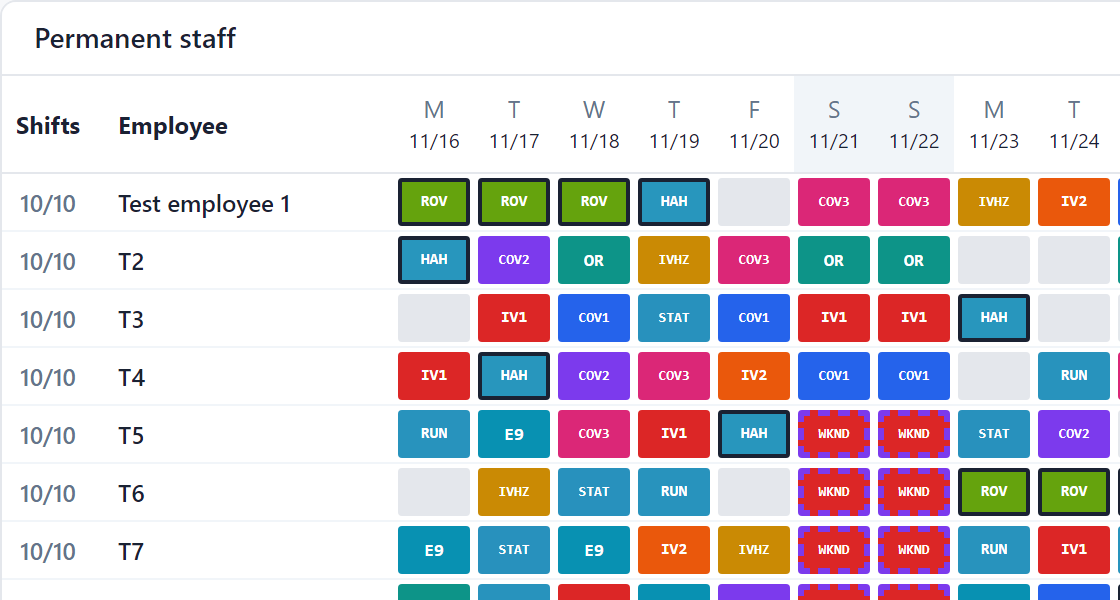
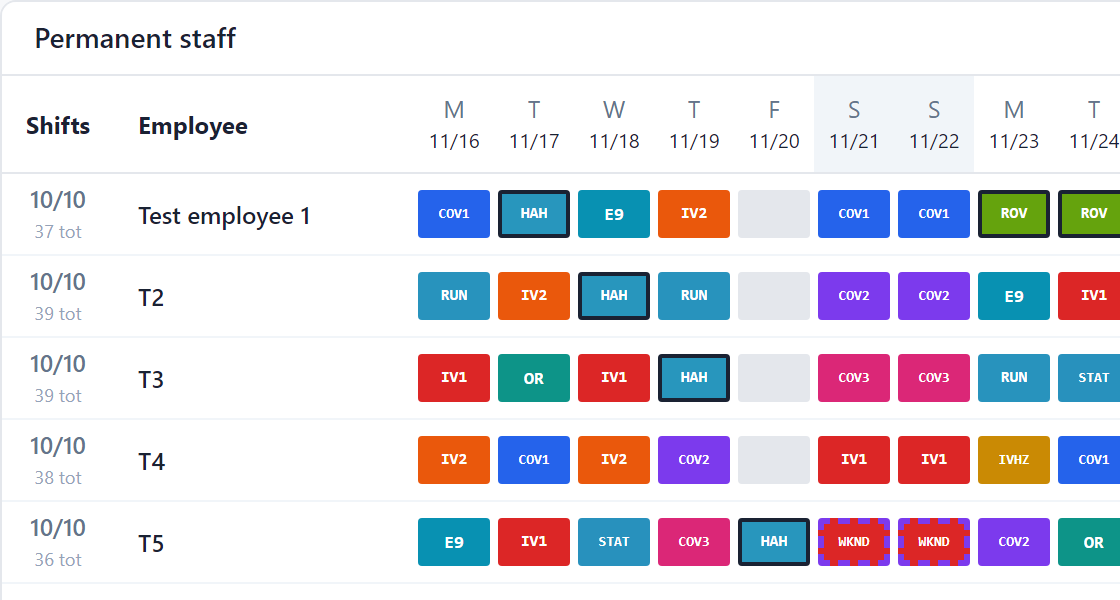
Show both peak and running total in the Shifts column
The Shifts column's single number (worst 14-day window anywhere in the
schedule) only visibly increases after a manual edit, never decreases,
since removing one shift rarely brings every window that includes it
back under the schedule's overall high-water mark. Now shows that peak
number (still the one that turns red, still the real cap check) plus a
small running total underneath that moves symmetrically with every drag,
so an edit's effect is always visible even when the peak doesn't change.

diff --git a/src/App.jsx b/src/App.jsx
@@ -1588,11 +1588,21 @@ export default function ShiftFairnessSchedulerV4({ session, profile: initialProf
   // running total. PTO-1 needs no special handling here — worked day
   // indices only ever include a day someone was actually assigned, which
   // a PTO-1 day never is.
+  // `peak` (worst window anywhere in the whole schedule) is what actually
+  // has to stay correct, so it's what drives the cap comparison and the
+  // red flag — total alone can't be safely compared to a per-window cap
+  // (a multi-period schedule's total is naturally a multiple of it, e.g.
+  // 38 total vs a cap of 10 looks alarming but is normal over 8 weeks).
+  // `total` is shown alongside it purely so the number visibly moves on
+  // every drag — peak only drops once ALL windows touching the removed
+  // day fall below the old high-water mark, so it can look "stuck" after
+  // a single edit even though the data changed correctly.
   const shiftTallyFor = (employee) => {
     const worked = workedDayIndicesFromSchedule(schedule.days, employee.id);
-    if (!employee.shiftCap) return { current: worked.length, cap: null, over: false };
-    const current = maxShiftsInAnyWindow(worked, employee.shiftCap.windowDays);
-    return { current, cap: employee.shiftCap.maxShifts, over: current > employee.shiftCap.maxShifts };
+    const total = worked.length;
+    if (!employee.shiftCap) return { total, cap: null, peak: total, over: false };
+    const peak = maxShiftsInAnyWindow(worked, employee.shiftCap.windowDays);
+    return { total, cap: employee.shiftCap.maxShifts, peak, over: peak > employee.shiftCap.maxShifts };
   };
 
   // Every unfilled shift, flattened to one row per (day, code) — feeds
@@ -1619,8 +1629,8 @@ export default function ShiftFairnessSchedulerV4({ session, profile: initialProf
       <table className="text-xs border-collapse">
         <thead>
           <tr>
-            <th className="sticky left-0 bg-white z-10 text-center px-1 py-2 border-b border-[#E4E7EC] min-w-[46px]" title="Shifts right now vs. their extended-hour cap (or just a running total if they're not capped) — updates live as you drag or fill gaps.">Shifts</th>
-            <th className="sticky left-[46px] bg-white z-10 text-left px-3 py-2 border-b border-[#E4E7EC] min-w-[150px]">Employee</th>
+            <th className="sticky left-0 bg-white z-10 text-center px-1 py-2 border-b border-[#E4E7EC] min-w-[56px]" title="Top: worst 14-day stretch anywhere in this schedule vs. their extended-hour cap — this is what turns red, since it's what actually matters for not overworking them. Bottom: their running total for the whole schedule, which moves with every drag (the top number only drops once every window touching the removed day is back under the old high, so it can look unchanged right after a single edit even though it's correct).">Shifts</th>
+            <th className="sticky left-[56px] bg-white z-10 text-left px-3 py-2 border-b border-[#E4E7EC] min-w-[150px]">Employee</th>
             {schedule.days.map((d) => (
               <th key={d.idx} className={`px-1 py-2 border-b border-[#E4E7EC] font-normal text-center min-w-[36px] ${d.isWknd ? "bg-[#F1F5F9]" : ""}`}>
                 <div className="text-[#64748B]">{d.wd[0]}</div><div className="text-[10px]">{d.md}</div>
@@ -1635,13 +1645,17 @@ export default function ShiftFairnessSchedulerV4({ session, profile: initialProf
             return (
             <tr key={emp.id}>
               <td
-                className="sticky left-0 bg-white z-10 px-1 py-1 border-b border-[#F1F5F9] text-center font-semibold"
-                style={{ color: tally.over ? "#DC2626" : "#64748B" }}
-                title={tally.cap != null ? `Peak ${tally.current} shifts in any ${emp.shiftCap.windowDays}-day window, capped at ${tally.cap}` : `${tally.current} shifts total — no cap set`}
+                className="sticky left-0 bg-white z-10 px-1 py-1 border-b border-[#F1F5F9] text-center"
+                title={tally.cap != null
+                  ? `Worst ${emp.shiftCap.windowDays}-day stretch: ${tally.peak} of ${tally.cap}. Running total this schedule: ${tally.total}.`
+                  : `${tally.total} shifts total — no cap set`}
               >
-                {tally.cap != null ? `${tally.current}/${tally.cap}` : tally.current}
+                <div className="font-semibold" style={{ color: tally.over ? "#DC2626" : "#64748B" }}>
+                  {tally.cap != null ? `${tally.peak}/${tally.cap}` : tally.total}
+                </div>
+                {tally.cap != null && <div className="text-[9px] text-[#94A3B8]">{tally.total} tot</div>}
               </td>
-              <td className="sticky left-[46px] bg-white z-10 px-3 py-1 border-b border-[#F1F5F9] font-medium">
+              <td className="sticky left-[56px] bg-white z-10 px-3 py-1 border-b border-[#F1F5F9] font-medium">
                 {emp.name}{emp.type === "extra" && <span className="ml-1 text-[9px] text-[#64748B]">PRN</span>}
               </td>
               {schedule.days.map((d) => {
@@ -1888,7 +1902,7 @@ export default function ShiftFairnessSchedulerV4({ session, profile: initialProf
                   <li>Every employee, every day, color-coded by shift.</li>
                   <li>A pulsing red <b>HOLE</b> badge means that shift couldn't be filled — hover it to see which shift and why.</li>
                   <li>An amber banner reading "couldn't be paired to the same person" means weekend pairing (see Permanent Staff above) couldn't find anyone free both Saturday and Sunday for that shift — it's a heads-up, not an error, and it tells you exactly which weekend to check.</li>
-                  <li><b>Shifts column</b> (left of Employee) — their current shift count right now, live. Capped staff show "current/cap" using their actual extended-hour cap, and it turns red if a manual move pushes them over it; uncapped staff just show a running total. It recalculates the instant you drag a cell or fill a gap, so it's your built-in "am I overloading anyone" checkpoint.</li>
+                  <li><b>Shifts column</b> (left of Employee) — two numbers, live, recalculated the instant you drag a cell or fill a gap. The bold top number is their worst 14-day stretch anywhere in the schedule vs. their cap (uncapped staff just show a running total) — this is your real "am I overloading anyone" checkpoint, and it turns red the moment any stretch goes over. The small number underneath is their running total for the whole schedule, which moves up or down with every single edit — the top number can look unchanged right after removing just one shift, since it only drops once every window touching that day is back under the old high; the total is there so you can always see the edit took effect.</li>
                   <li><b>Drag any shift cell onto another to swap them by hand.</b> Both people trade places — nobody just disappears. A small teal dot marks a cell you've moved. Fairness Report, Optimization, and Export CSV all update to match immediately. A continuity shift can't be dragged or dropped onto (it's a locked multi-day block), and neither can someone's approved PTO-1 leave day. If a swap puts someone on a shift they're not trained for or over a limit, you'll get an amber warning — it still goes through, since it's your call, but you'll know.</li>
                   <li>Dragging someone <i>away</i> from a day they were covering, onto a day where the other person wasn't working, leaves their original day empty — that's not a bug. Nobody automatically backfills it, so it shows up honestly as a new Coverage gap instead of silently vanishing.</li>
                   <li><b>"Fill a coverage gap" card</b> — appears whenever there are HOLEs. Pick anyone — permanent or PRN — from the dropdown next to each empty shift to assign it directly, no dragging needed. Same rules as a drag swap: can't double-book someone or drop them on approved leave, but an untrained or over-limit pick still goes through with a warning.</li>
